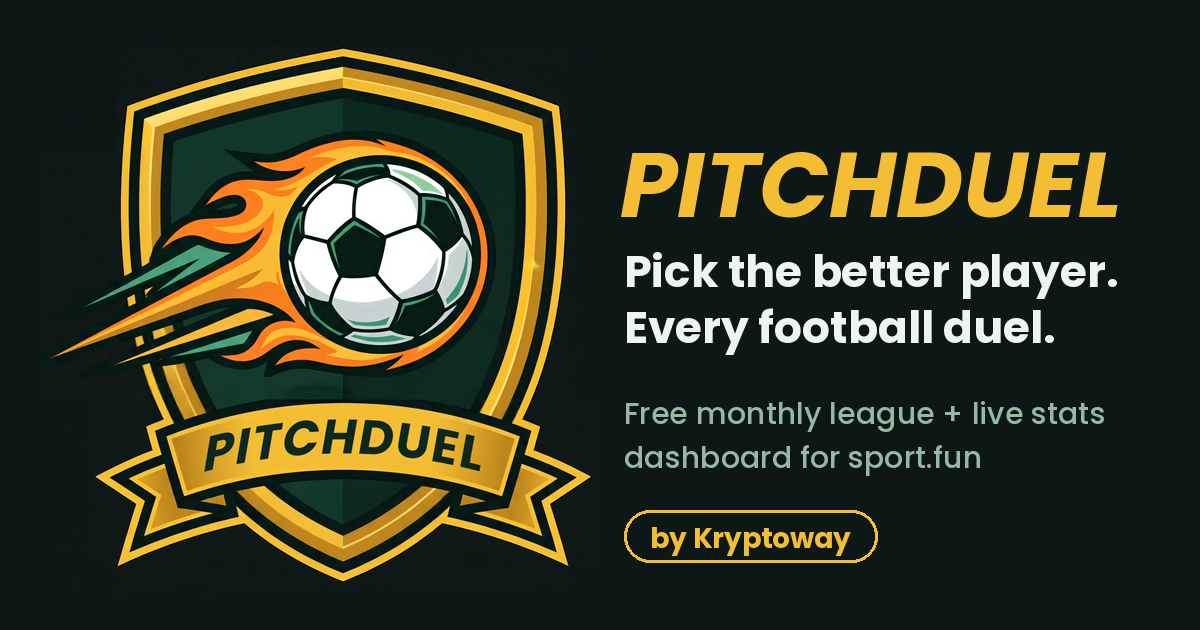
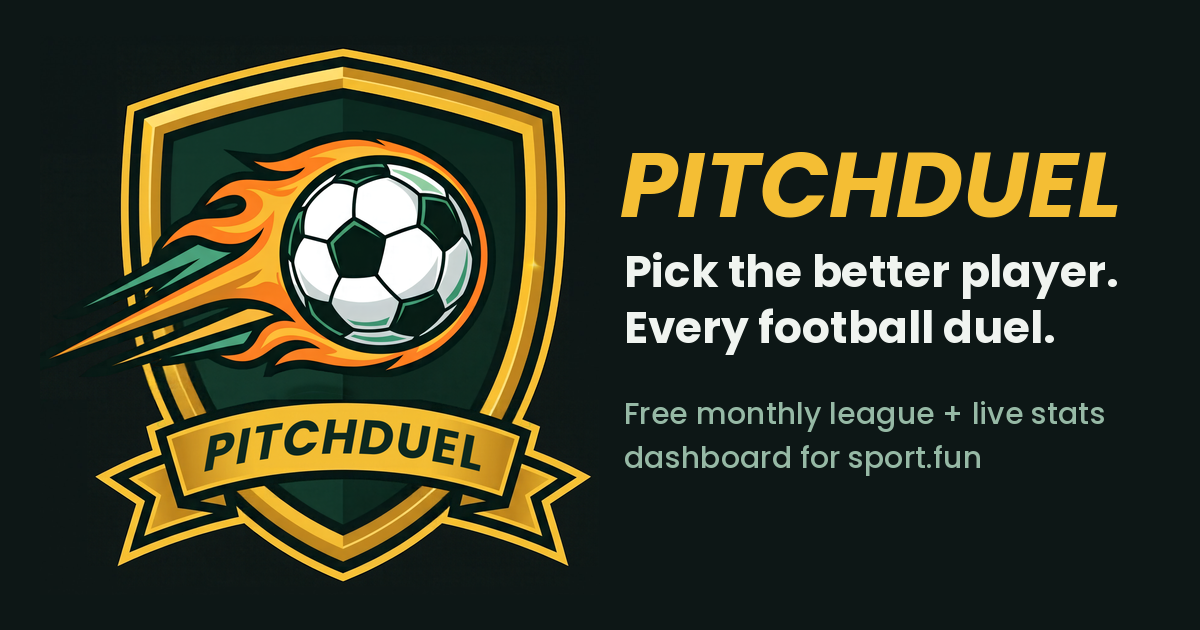
Share texts tag @pitch_duel; link preview image without 'by Kryptoway'
Claude-Session: https://claude.ai/code/session_01YAMQ4xTcbiEpuSU56GNs3V

Changed region(s): [[0.5242, 0.7841, 0.74, 0.9048], [0.7092, 0.8143, 0.74, 0.8444]]

diff --git a/index.html b/index.html
@@ -665,7 +665,7 @@ function xtrim(t){let a=Array.from(t);while(a.length&&xlen(a.join(''))>XMAX)a.po
 function shareText(){const m=S.mt||{},st=m.streak||{},sr=m.stars||{},iv=m.invites||{},me=S.user.nick.toLowerCase(),aw=awardsFrom(S.tr||{}),cnt=t=>aw.filter(a=>a.t===t&&String(a.nick).toLowerCase()===me).length,c1=cnt('m1'),cp=cnt('pr'),p=[];
 if(sr.total>0)p.push('⭐ '+sr.total+' Duel Stars');if(c1>0)p.push('🥇 '+c1+'× month winner');if(cp>0)p.push('🛡 '+cp+'× perfect round');if((st.best||0)>=3)p.push('🔥 best streak: '+st.best+' rounds');if((iv.active||0)>0)p.push('👥 '+iv.active+' friend'+(iv.active>1?'s':'')+' in my league');
 const body=p.length?p.slice(0,3).join(' · '):"I just joined and I'm collecting Duel Stars.";
-return xtrim('My PitchDuel cabinet 🏆\n'+body+'\n#PitchDuel #FantasyFootball\nThink you can beat me? 👇')}
+return xtrim('My PitchDuel cabinet 🏆\n'+body+'\n@pitch_duel #PitchDuel #FantasyFootball\nThink you can beat me? 👇')}
 
 const SHI={};function shLoad(f){return SHI[f]||(SHI[f]=new Promise((ok,no)=>{const i=new Image();i.onload=()=>ok(i);i.onerror=no;i.src='assets/'+f}))}
 async function makeShareImage(){
@@ -716,7 +716,7 @@ function shareX(mode){return postX(mode,CABX)}
 // ---- share a single duel (Pick tab)
 const dkey=p=>p.id+':'+(S.picks[p.id]||'-');
 function duelText(p){const pk=S.picks[p.id],a=p.a,b=p.b,cn=x=>CLUBN[x.club]||x.club,w=pk?p[pk.toLowerCase()]:null,o=pk?p[pk==='A'?'b':'a']:null;
-const t=pk?'Duel time ⚔\nWho scores more points next match: '+a.name+' ('+cn(a)+') or '+b.name+' ('+cn(b)+')?\nI am backing '+w.name+' over '+o.name+' 💪\nThink you know better? Make your pick 👇\n#PitchDuel #FantasyFootball':'Duel time ⚔\n'+a.name+' ('+cn(a)+') or '+b.name+' ('+cn(b)+'): who scores more points next match?\nI cannot decide. What is your pick? 👇\n#PitchDuel #FantasyFootball';return xtrim(t)}
+const t=pk?'Duel time ⚔\nWho scores more points next match: '+a.name+' ('+cn(a)+') or '+b.name+' ('+cn(b)+')?\nI am backing '+w.name+' over '+o.name+' 💪\nThink you know better? Make your pick 👇\n@pitch_duel #PitchDuel #FantasyFootball':'Duel time ⚔\n'+a.name+' ('+cn(a)+') or '+b.name+' ('+cn(b)+'): who scores more points next match?\nI cannot decide. What is your pick? 👇\n@pitch_duel #PitchDuel #FantasyFootball';return xtrim(t)}
 function duelDefault(p){const k=dkey(p);S.shdT=S.shdT||{};if(S.shdT[k]==null)S.shdT[k]=duelText(p);return S.shdT[k]}
 async function makeDuelImage(p){const W=1200,H=630,cv=document.createElement('canvas');cv.width=W;cv.height=H;const g=cv.getContext('2d'),FB='"Barlow Condensed",Impact,sans-serif',pk=S.picks[p.id];
 try{await Promise.all([document.fonts.load('700 20px "Barlow Condensed"'),document.fonts.load('600 14px Barlow')])}catch(e){}
